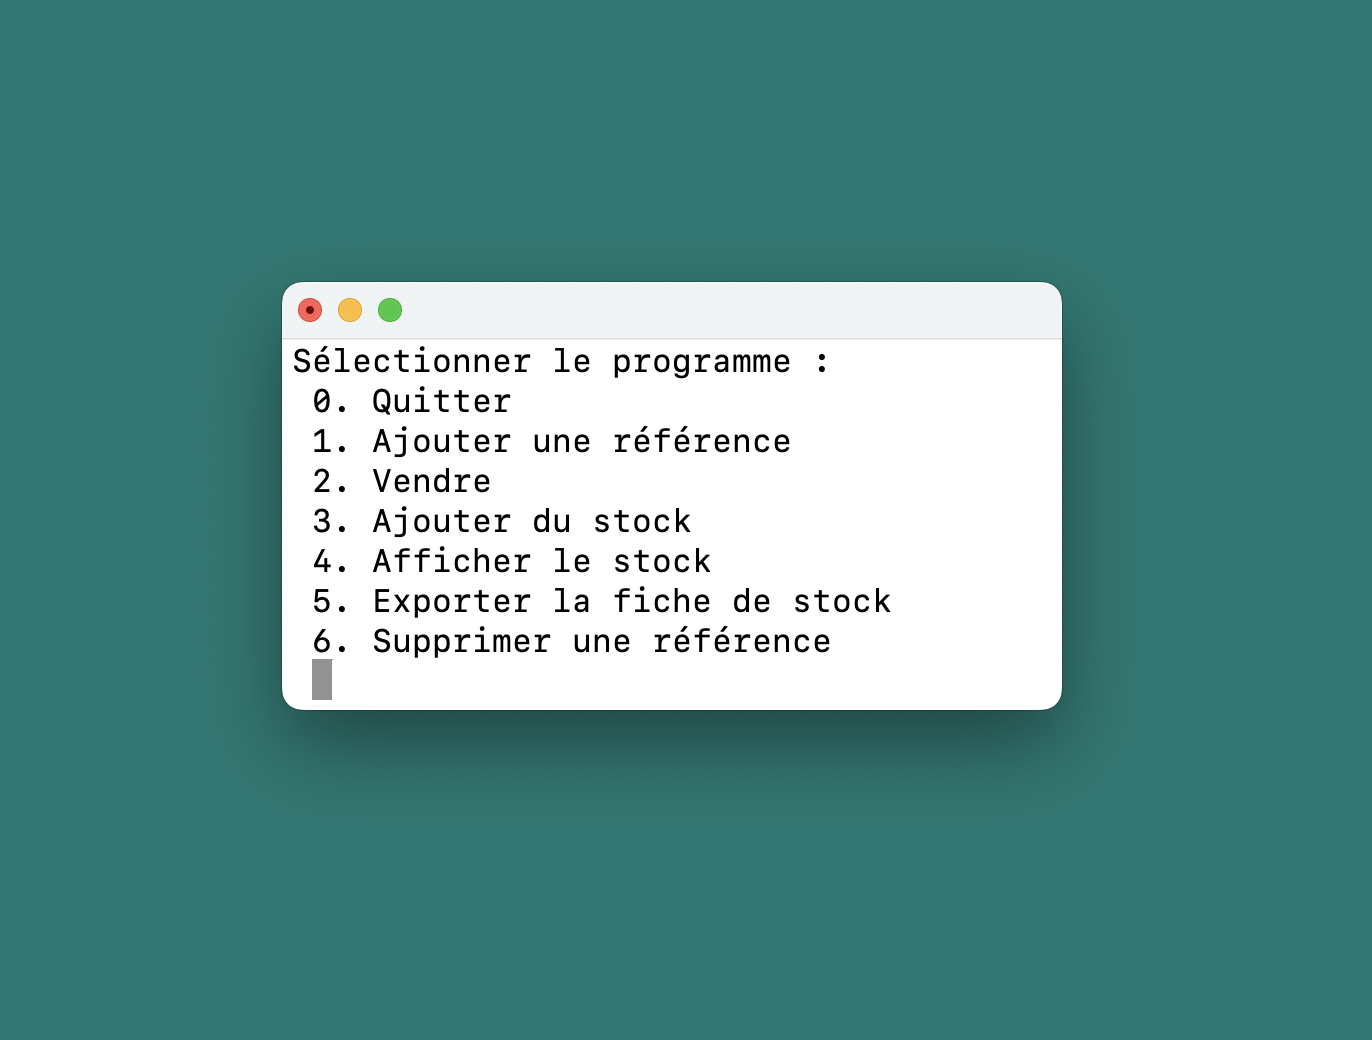
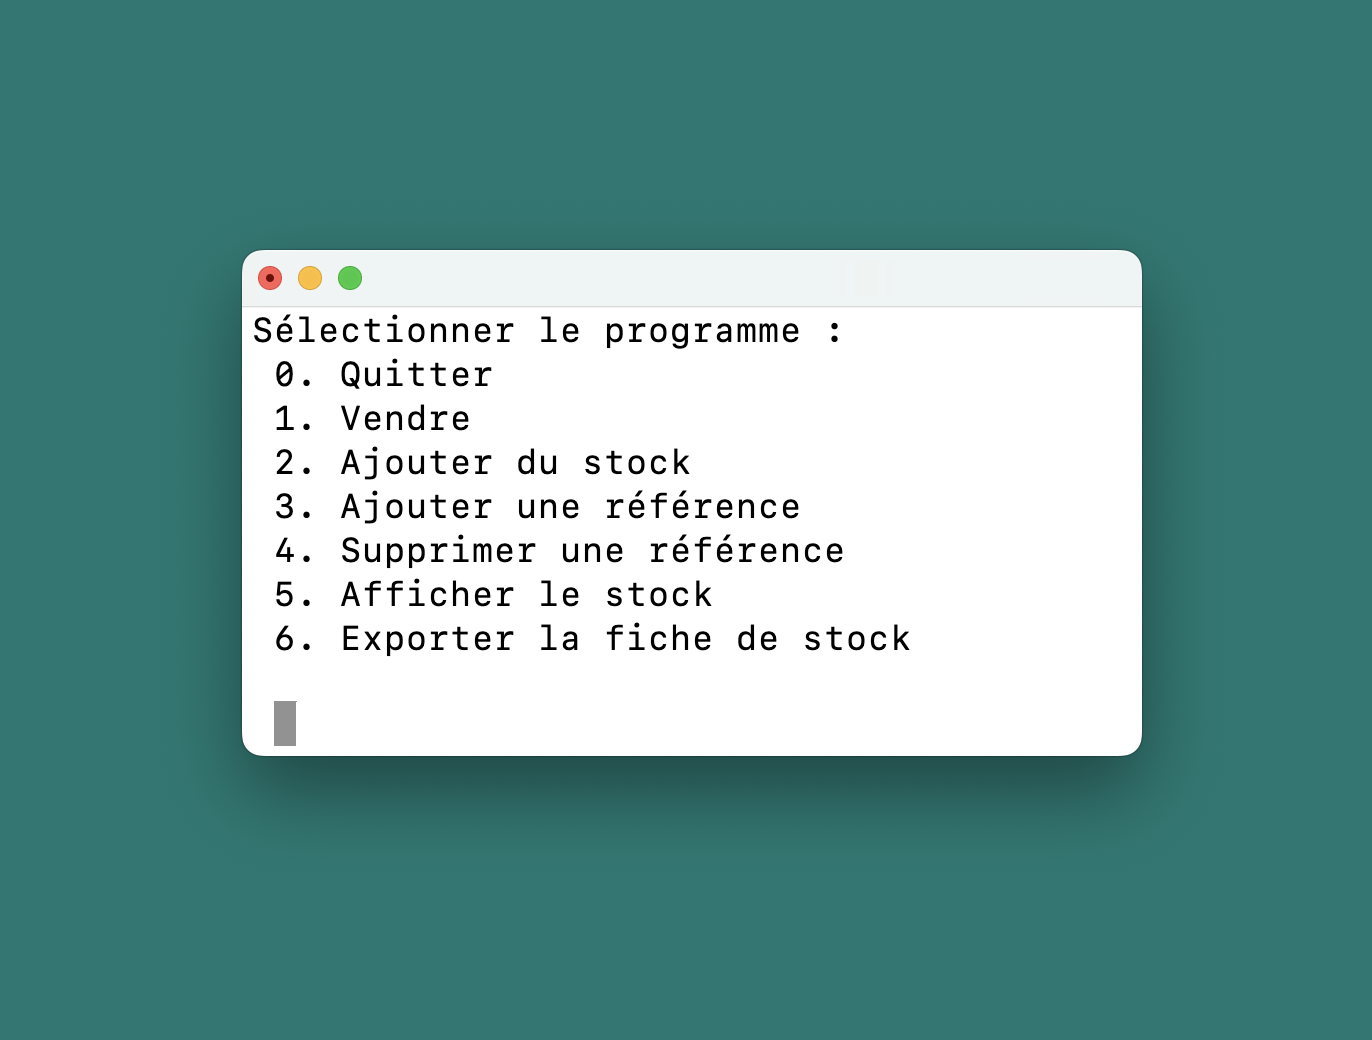
Mise à jour.

Changed region(s): [[0.1531, 0.2154, 0.8571, 0.7692]]

diff --git a/main.py b/main.py
@@ -1,11 +1,10 @@
-from src.programmes.p0_quitter import p0_quitter
-from src.programmes.p1_ajouter_reference import p1_ajouter_reference
-from src.programmes.p2_vendre import p2_vendre
-from src.programmes.p3_ajouter_stock import p3_ajouter_stock
-from src.programmes.p4_afficher_stock import p4_afficher_stock
-from src.programmes.p5_exporter_fiche_stock import p5_exporter_fiche_stock
-from src.programmes.p6_supprimer_reference import p6_supprimer_reference
-
+from programs.p0_quitter import p0_quitter
+from programs.p3_ajouter_reference import p3_ajouter_reference
+from programs.p1_vendre import p1_vendre
+from programs.p2_ajouter_stock import p2_ajouter_stock
+from programs.p5_afficher_stock import p5_afficher_stock
+from programs.p6_exporter_fiche_stock import p6_exporter_fiche_stock
+from programs.p4_supprimer_reference import p4_supprimer_reference
 
 inv = {
     "pomme": 50,
@@ -13,20 +12,19 @@ inv = {
     "orange": 50
 }
 
-
 while True:
-    menu = input(f"Sélectionner le programme : \n 0. Quitter \n 1. Ajouter une référence \n 2. Vendre \n 3. Ajouter du stock \n 4. Afficher le stock \n 5. Exporter la fiche de stock \n 6. Supprimer une référence \n ")
+    menu = input(f"Sélectionner le programme : \n 0. Quitter \n 1. Vendre \n 2. Ajouter du stock \n 3. Ajouter une référence \n 4. Supprimer une référence \n 5. Afficher le stock \n 6. Exporter la fiche de stock  \n\n ")
     if menu == "0":
         p0_quitter()
     if menu == "1":
-        p1_ajouter_reference(inv)
+        p1_vendre(inv)
     if menu == "2":
-        p2_vendre(inv)
+        p2_ajouter_stock(inv)
     if menu == "3":
-        p3_ajouter_stock(inv)
+        p3_ajouter_reference(inv)
     if menu == "4":
-        p4_afficher_stock(inv)
+        p4_supprimer_reference(inv)
     if menu == "5":
-        p5_exporter_fiche_stock(inv)
+        p5_afficher_stock(inv)
     if menu == "6":
-        p6_supprimer_reference(inv)
+        p6_exporter_fiche_stock(inv)

diff --git a/programs/p2_ajouter_stock.py b/programs/p2_ajouter_stock.py
@@ -1,7 +1,7 @@
-from src.programmes.fonctions import f0_valeur_saisie_vide, f1_reference_existe, f2_verifier_valeur_entiere_positive, f3_afficher_liste_references
+from library.fonctions import f0_valeur_saisie_vide, f1_reference_existe, f2_verifier_valeur_entiere_positive, f3_afficher_liste_references
 
 
-def p3_ajouter_stock(inv):
+def p2_ajouter_stock(inv):
     while True:
         reference = input(f"Saisissez la référence à stocker ({f3_afficher_liste_references(inv)}) \n (pour annuler, laissez vide) \n")
         if f0_valeur_saisie_vide(reference):

diff --git a/programs/p1_vendre.py b/programs/p1_vendre.py
@@ -1,7 +1,7 @@
-from src.programmes.fonctions import f0_valeur_saisie_vide, f1_reference_existe, f2_verifier_valeur_entiere_positive, f3_afficher_liste_references
+from library.fonctions import f0_valeur_saisie_vide, f1_reference_existe, f2_verifier_valeur_entiere_positive, f3_afficher_liste_references
 
 
-def p2_vendre(inv):
+def p1_vendre(inv):
     while True:
         reference = input(f"Saisissez la référence à vendre ({f3_afficher_liste_references(inv)})\n (pour annuler, laissez vide) \n")
         if f0_valeur_saisie_vide(reference):

diff --git a/programs/p3_ajouter_reference.py b/programs/p3_ajouter_reference.py
@@ -1,7 +1,7 @@
-from src.programmes.fonctions import f0_valeur_saisie_vide, f1_reference_existe, f2_verifier_valeur_entiere_positive
+from library.fonctions import f0_valeur_saisie_vide, f1_reference_existe, f2_verifier_valeur_entiere_positive
 
 
-def p1_ajouter_reference(inv):
+def p3_ajouter_reference(inv):
     while True:
         reference = input("Saisissez la référence à ajouter dans l'inventaire (pour annuler, laissez vide) \n")
         if f0_valeur_saisie_vide(reference):

diff --git a/programs/p4_supprimer_reference.py b/programs/p4_supprimer_reference.py
@@ -1,7 +1,7 @@
-from src.programmes.fonctions import f0_valeur_saisie_vide, f1_reference_existe
+from library.fonctions import f0_valeur_saisie_vide, f1_reference_existe
 
 
-def p6_supprimer_reference(inv):
+def p4_supprimer_reference(inv):
     while True:
         reference = input("Saisissez la référence à supprimer de l'inventaire (pour annuler, laissez vide) \n")
         if f0_valeur_saisie_vide(reference):

diff --git a/programs/p6_exporter_fiche_stock.py b/programs/p6_exporter_fiche_stock.py
@@ -1,7 +1,7 @@
 import csv
 
 
-def p5_exporter_fiche_stock(inv):
+def p6_exporter_fiche_stock(inv):
     with open('fiche_stock.csv','w') as f:
         writer = csv.writer(f)
         writer.writerow(["Référence", "Stock"])

diff --git a/programs/p5_afficher_stock.py b/programs/p5_afficher_stock.py
@@ -1,3 +1,3 @@
-def p4_afficher_stock(inv):
+def p5_afficher_stock(inv):
     for reference, quantite in inv.items():
         print(f"{reference} : {quantite} unité(s) en stock.\n")

diff --git a/readme.md b/readme.md
@@ -20,8 +20,8 @@ Ce petit programme permet de gérer un inventaire de produits. Il est possible d
 ### Structure
 
 Les programmes sont accessibles depuis le menu principal (contenu dans le fichier [main.py](main.py)).
-Chaque programme est stocké dans [`src/programmes`](src/programmes) et fait appel à des fonctions
-stockées dans le fichier [fonctions.py](src/programmes/fonctions.py) situé dans le même répertoire [`src/programmes`](src).
+Chaque programme est stocké dans [`src/programmes`](programs) et fait appel à des fonctions
+stockées dans le fichier [fonctions.py](library/fonctions.py) situé dans le même répertoire [`src/programmes`](src).
 
 ---
 
